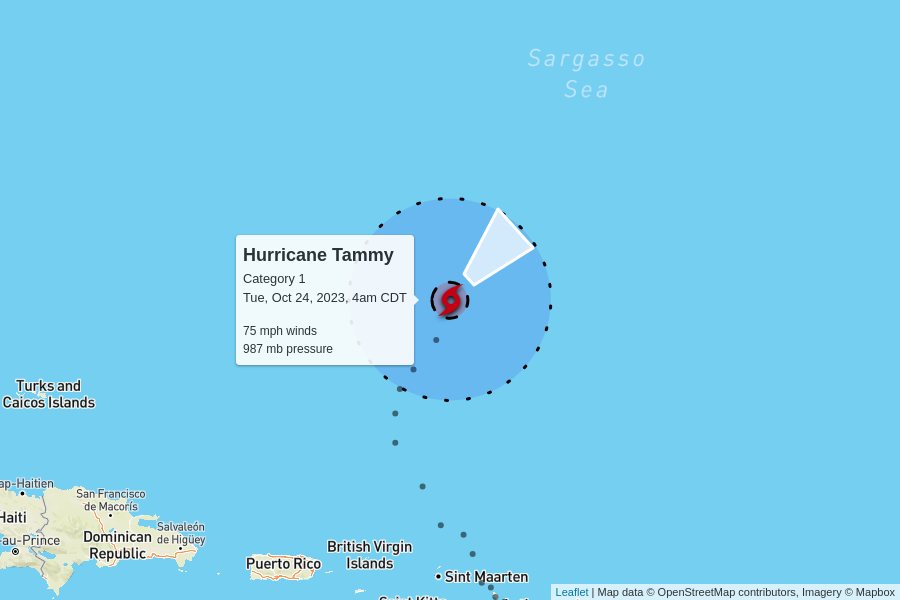
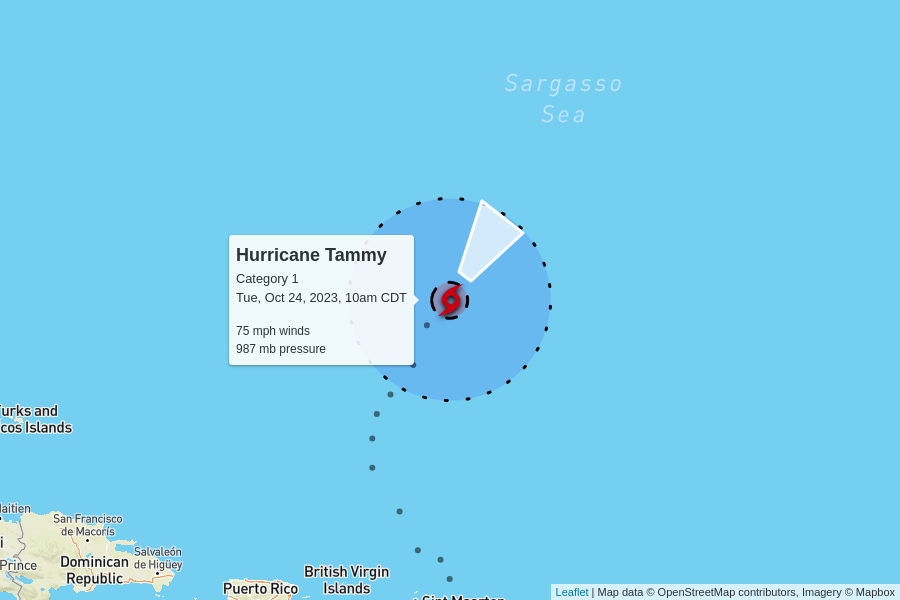
automatic update

diff --git a/docs/index.html b/docs/index.html
@@ -96,15 +96,13 @@
     </p>
 
     
-    <h2>2 active storms</h2>
-    <img src="active.png">
 
     <table>
       <tr>
         <td colspan="6" class="storm category-1" >
           <h2>
             Hurricane Tammy - Category 1
-            <p class="updated">last updated <span data-time>2023-10-24T09:00:00.000Z</span></p>
+            <p class="updated">last updated <span data-time>2023-10-24T15:00:00.000Z</span></p>
           </h2>
         </td>
       </tr>
@@ -122,9 +120,9 @@
         <td>75 mph<br>0 mph since last update</td>
         <td>987 mb<br>0 mb since last update</td>
         <td>
-          9 mph to the northeast
+          8 mph to the northeast
           <br/>
-          <span style="display: inline-block; font-size: 1.5em; transform: rotate(45deg);">↑</span>
+          <span style="display: inline-block; font-size: 1.5em; transform: rotate(35deg);">↑</span>
         </td>
         <td><a href="https://raw.githubusercontent.com/mgwalker/atlantic-hurricanes/main/data/csv/AL202023.csv">AL202023.csv</a></td>
         <td><a href="https://www.nhc.noaa.gov/archive/2023/TAMMY.shtml?">NHC advisories</a></td>
@@ -145,35 +143,13 @@
       
 
       <tr>
-        <td colspan="6" class="storm category-0" >
-          <h2>
-            Tropical Depression Twenty
-            <p class="updated">last updated <span data-time>2023-10-24T09:00:00.000Z</span></p>
+        <td colspan="6" class="storm " style="cursor:pointer;" onClick="toggle('AL212023')">
+          <h2>🏁 Twenty
           </h2>
         </td>
       </tr>
       
-      <tr>
-        <th class="spacer"></th>
-        <th>wind speed</th>
-        <th>central pressure</th>
-        <th>movement</th>
-        <th>data (CSV)</th>
-        <th>National Hurricane Center</th>
-      </tr>
-      <tr>
-        <td class="spacer"></td>
-        <td>30 mph<br>0 mph since last update</td>
-        <td>1007 mb<br>0 mb since last update</td>
-        <td>
-          6 mph to the northwest
-          <br/>
-          <span style="display: inline-block; font-size: 1.5em; transform: rotate(310deg);">↑</span>
-        </td>
-        <td><a href="https://raw.githubusercontent.com/mgwalker/atlantic-hurricanes/main/data/csv/AL212023.csv">AL212023.csv</a></td>
-        <td><a href="https://www.nhc.noaa.gov/archive/2023/TWENTY.shtml?">NHC advisories</a></td>
-      </tr>
-      <tr id="storm_AL212023" >
+      <tr id="storm_AL212023" style="display:none;">
         <td class="spacer">
         <td colspan="5">
           <figure>
